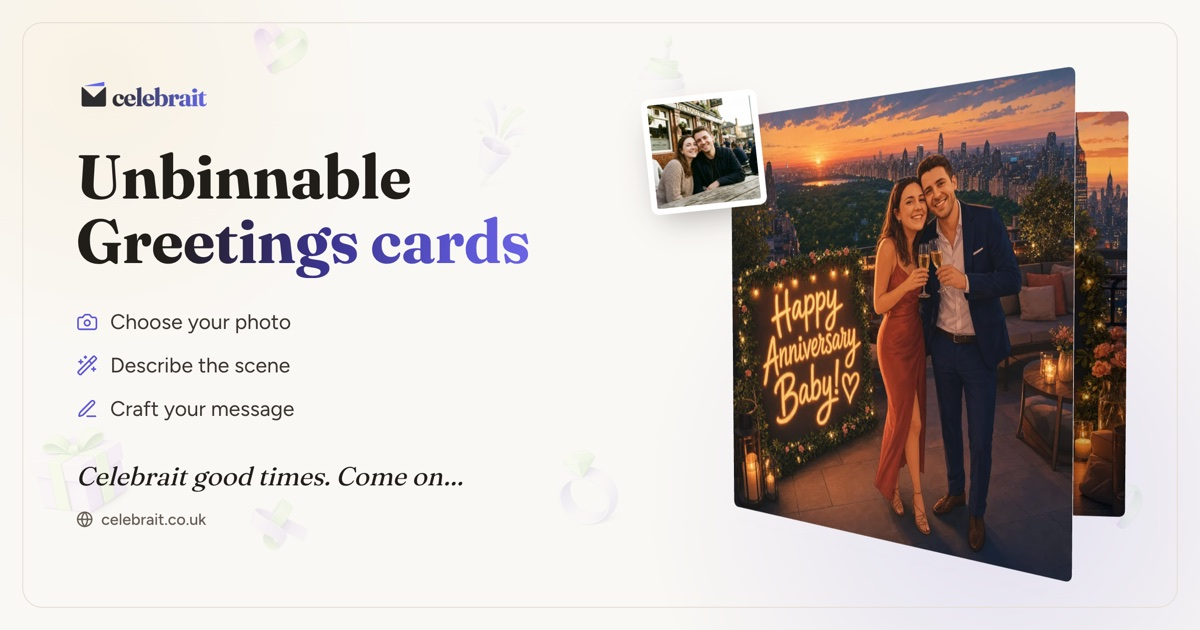
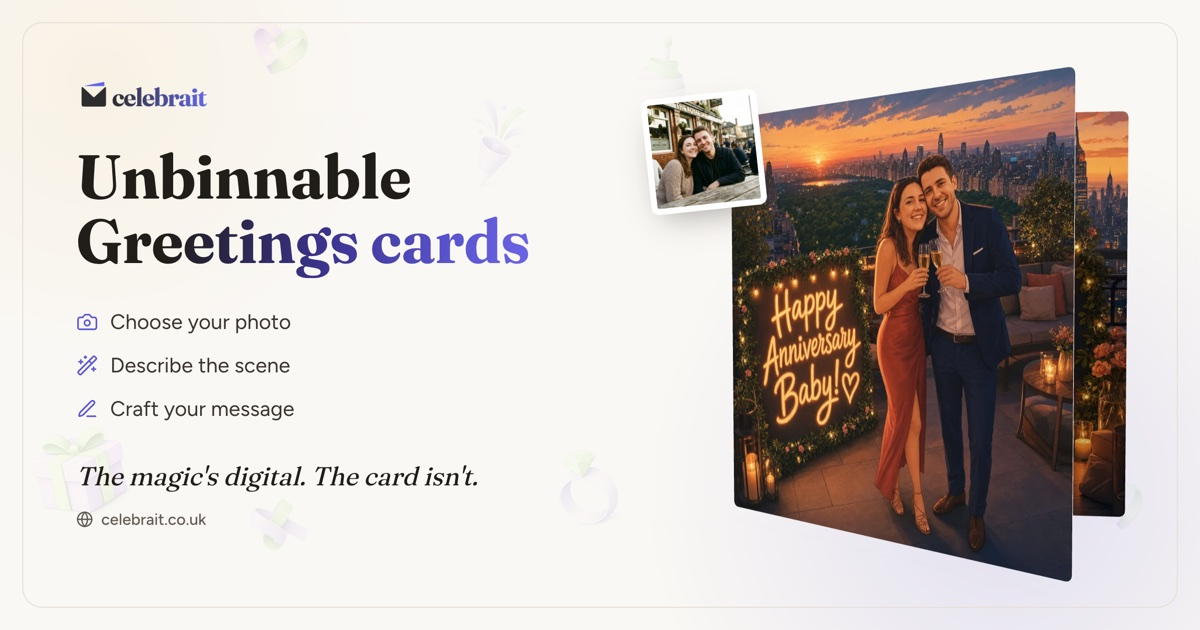
OG share image: swap sign-off to "The magic's digital. The card isn't."

Changed region(s): [[0.0617, 0.7238, 0.4008, 0.7841]]

diff --git a/client/src/pages/og-card.tsx b/client/src/pages/og-card.tsx
@@ -108,6 +108,7 @@ export default function OgCard() {
               'radial-gradient(circle, rgba(230,180,90,0.10) 0%, rgba(230,180,90,0) 70%)',
           }}
         />
+
         {/* inner hairline frame */}
         <div className="pointer-events-none absolute inset-[22px] rounded-[20px] border border-keeper-hair" />
 
@@ -156,7 +157,7 @@ export default function OgCard() {
             </ul>
 
             <p className="mt-8 font-display text-[26px] font-normal italic text-keeper-ink">
-              Celebrait good times. Come on…
+              The magic's digital. The card isn't.
             </p>
             <p className="mt-3 flex items-center gap-2 text-[16px] font-medium text-keeper-meta">
               <Globe className="h-[17px] w-[17px]" strokeWidth={2} aria-hidden />
